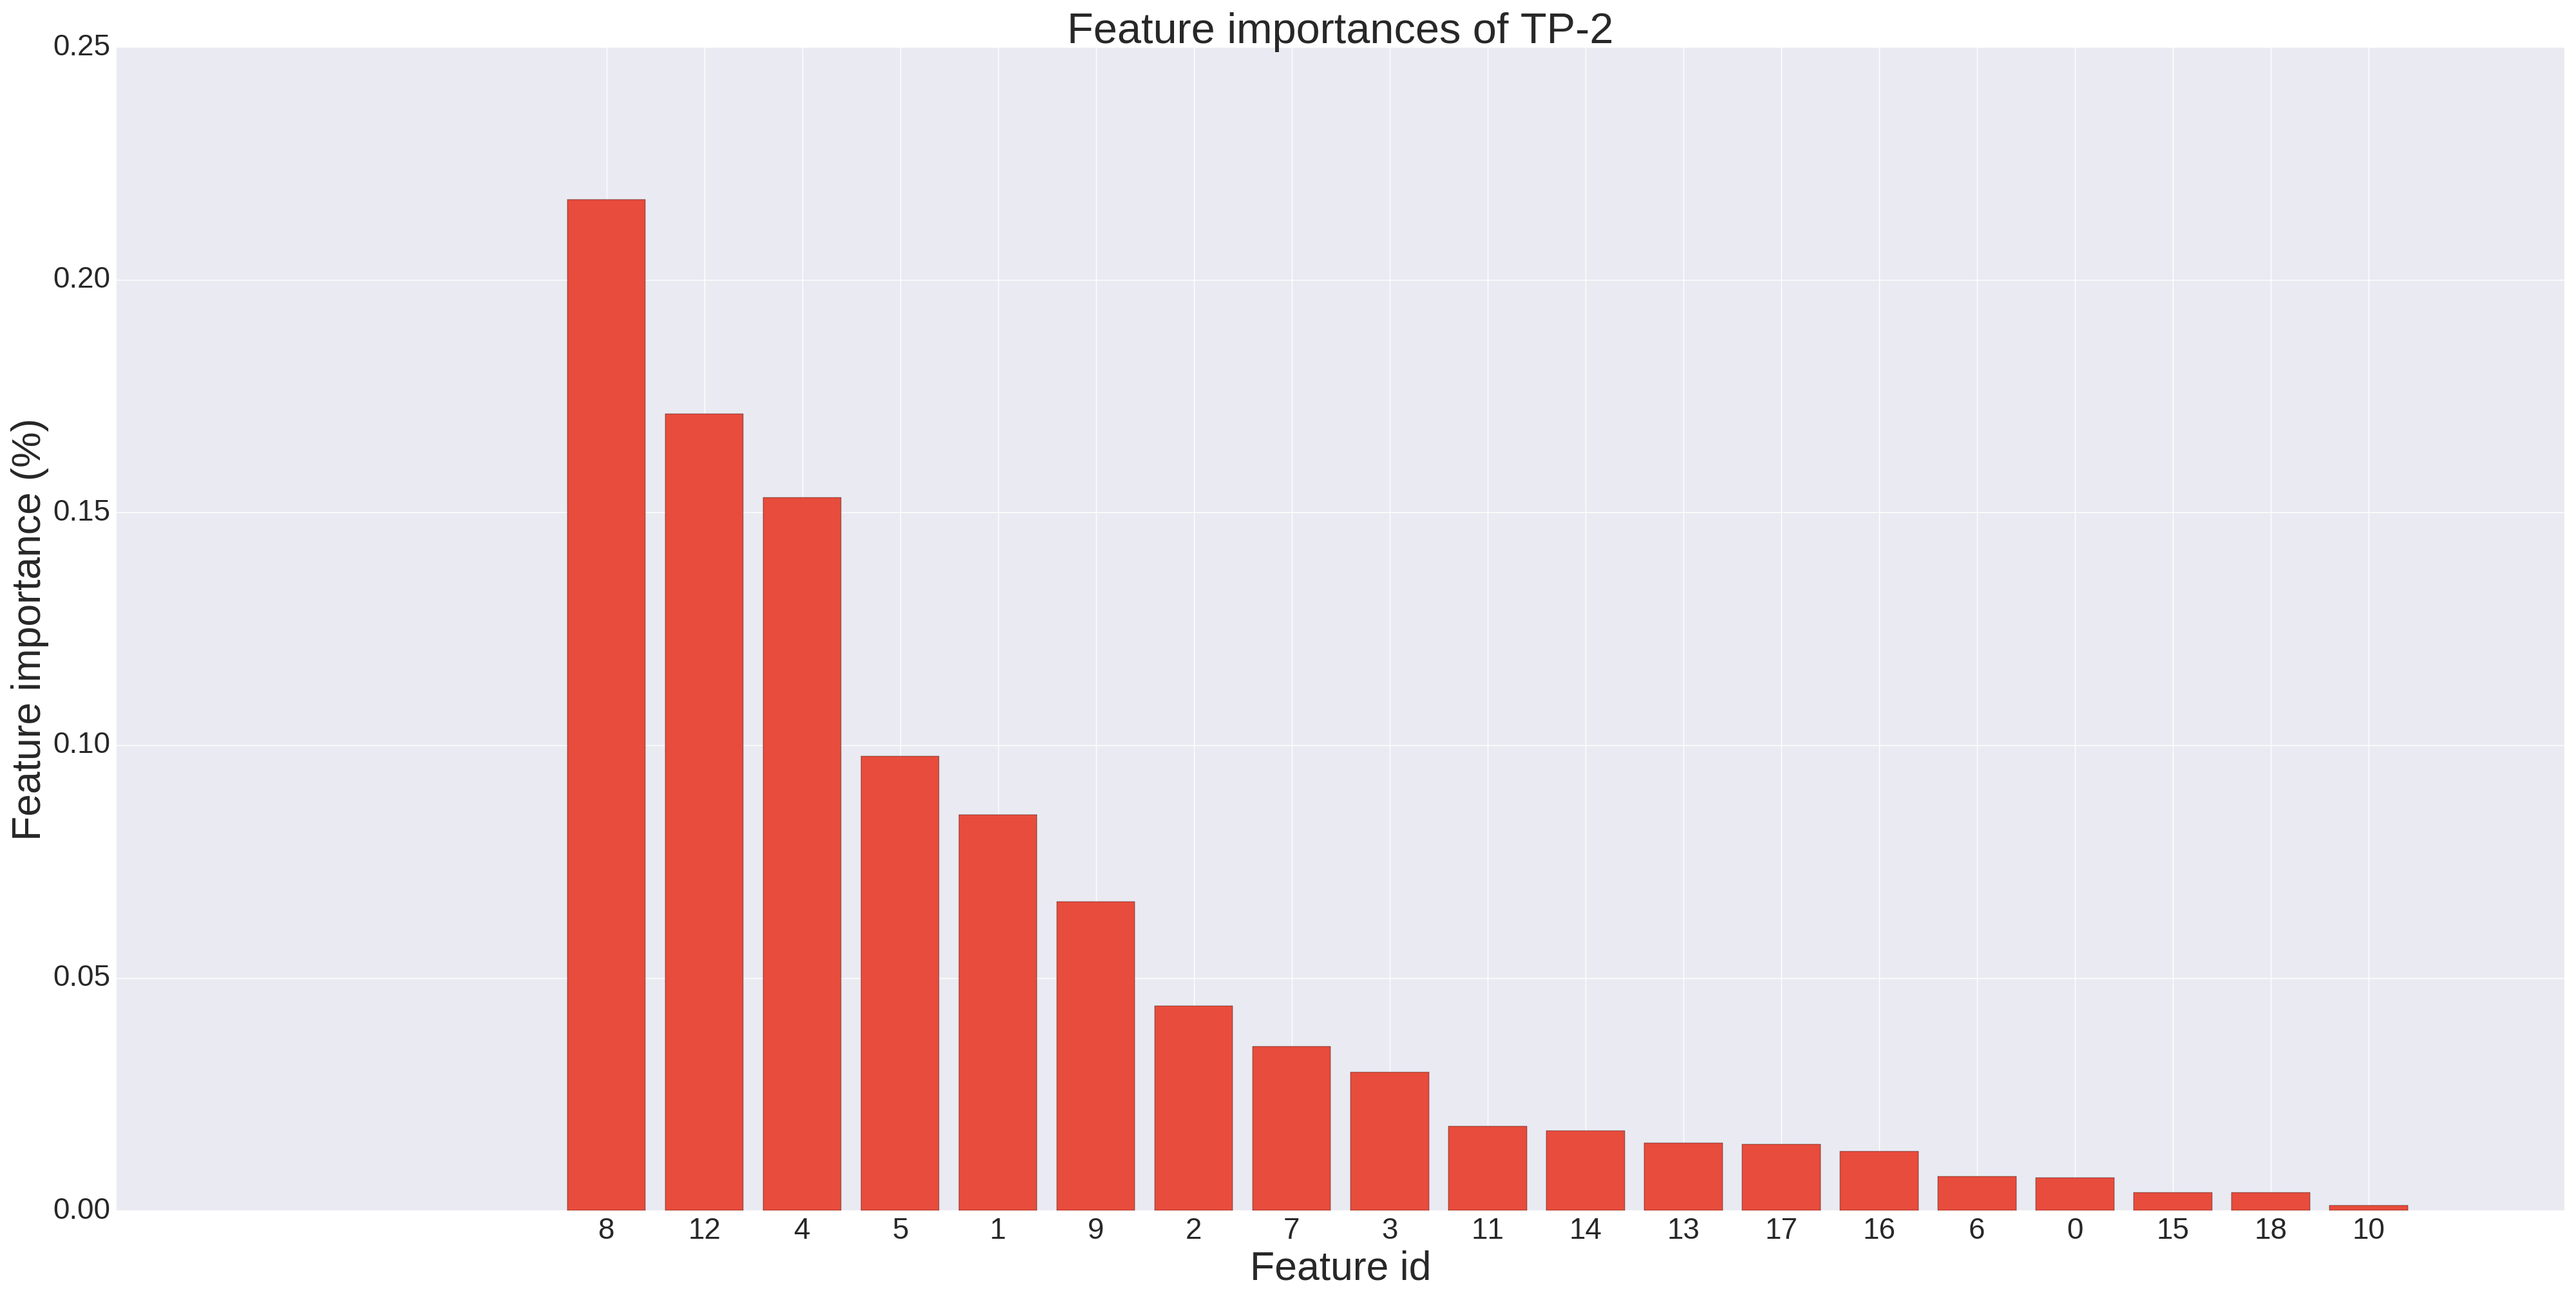
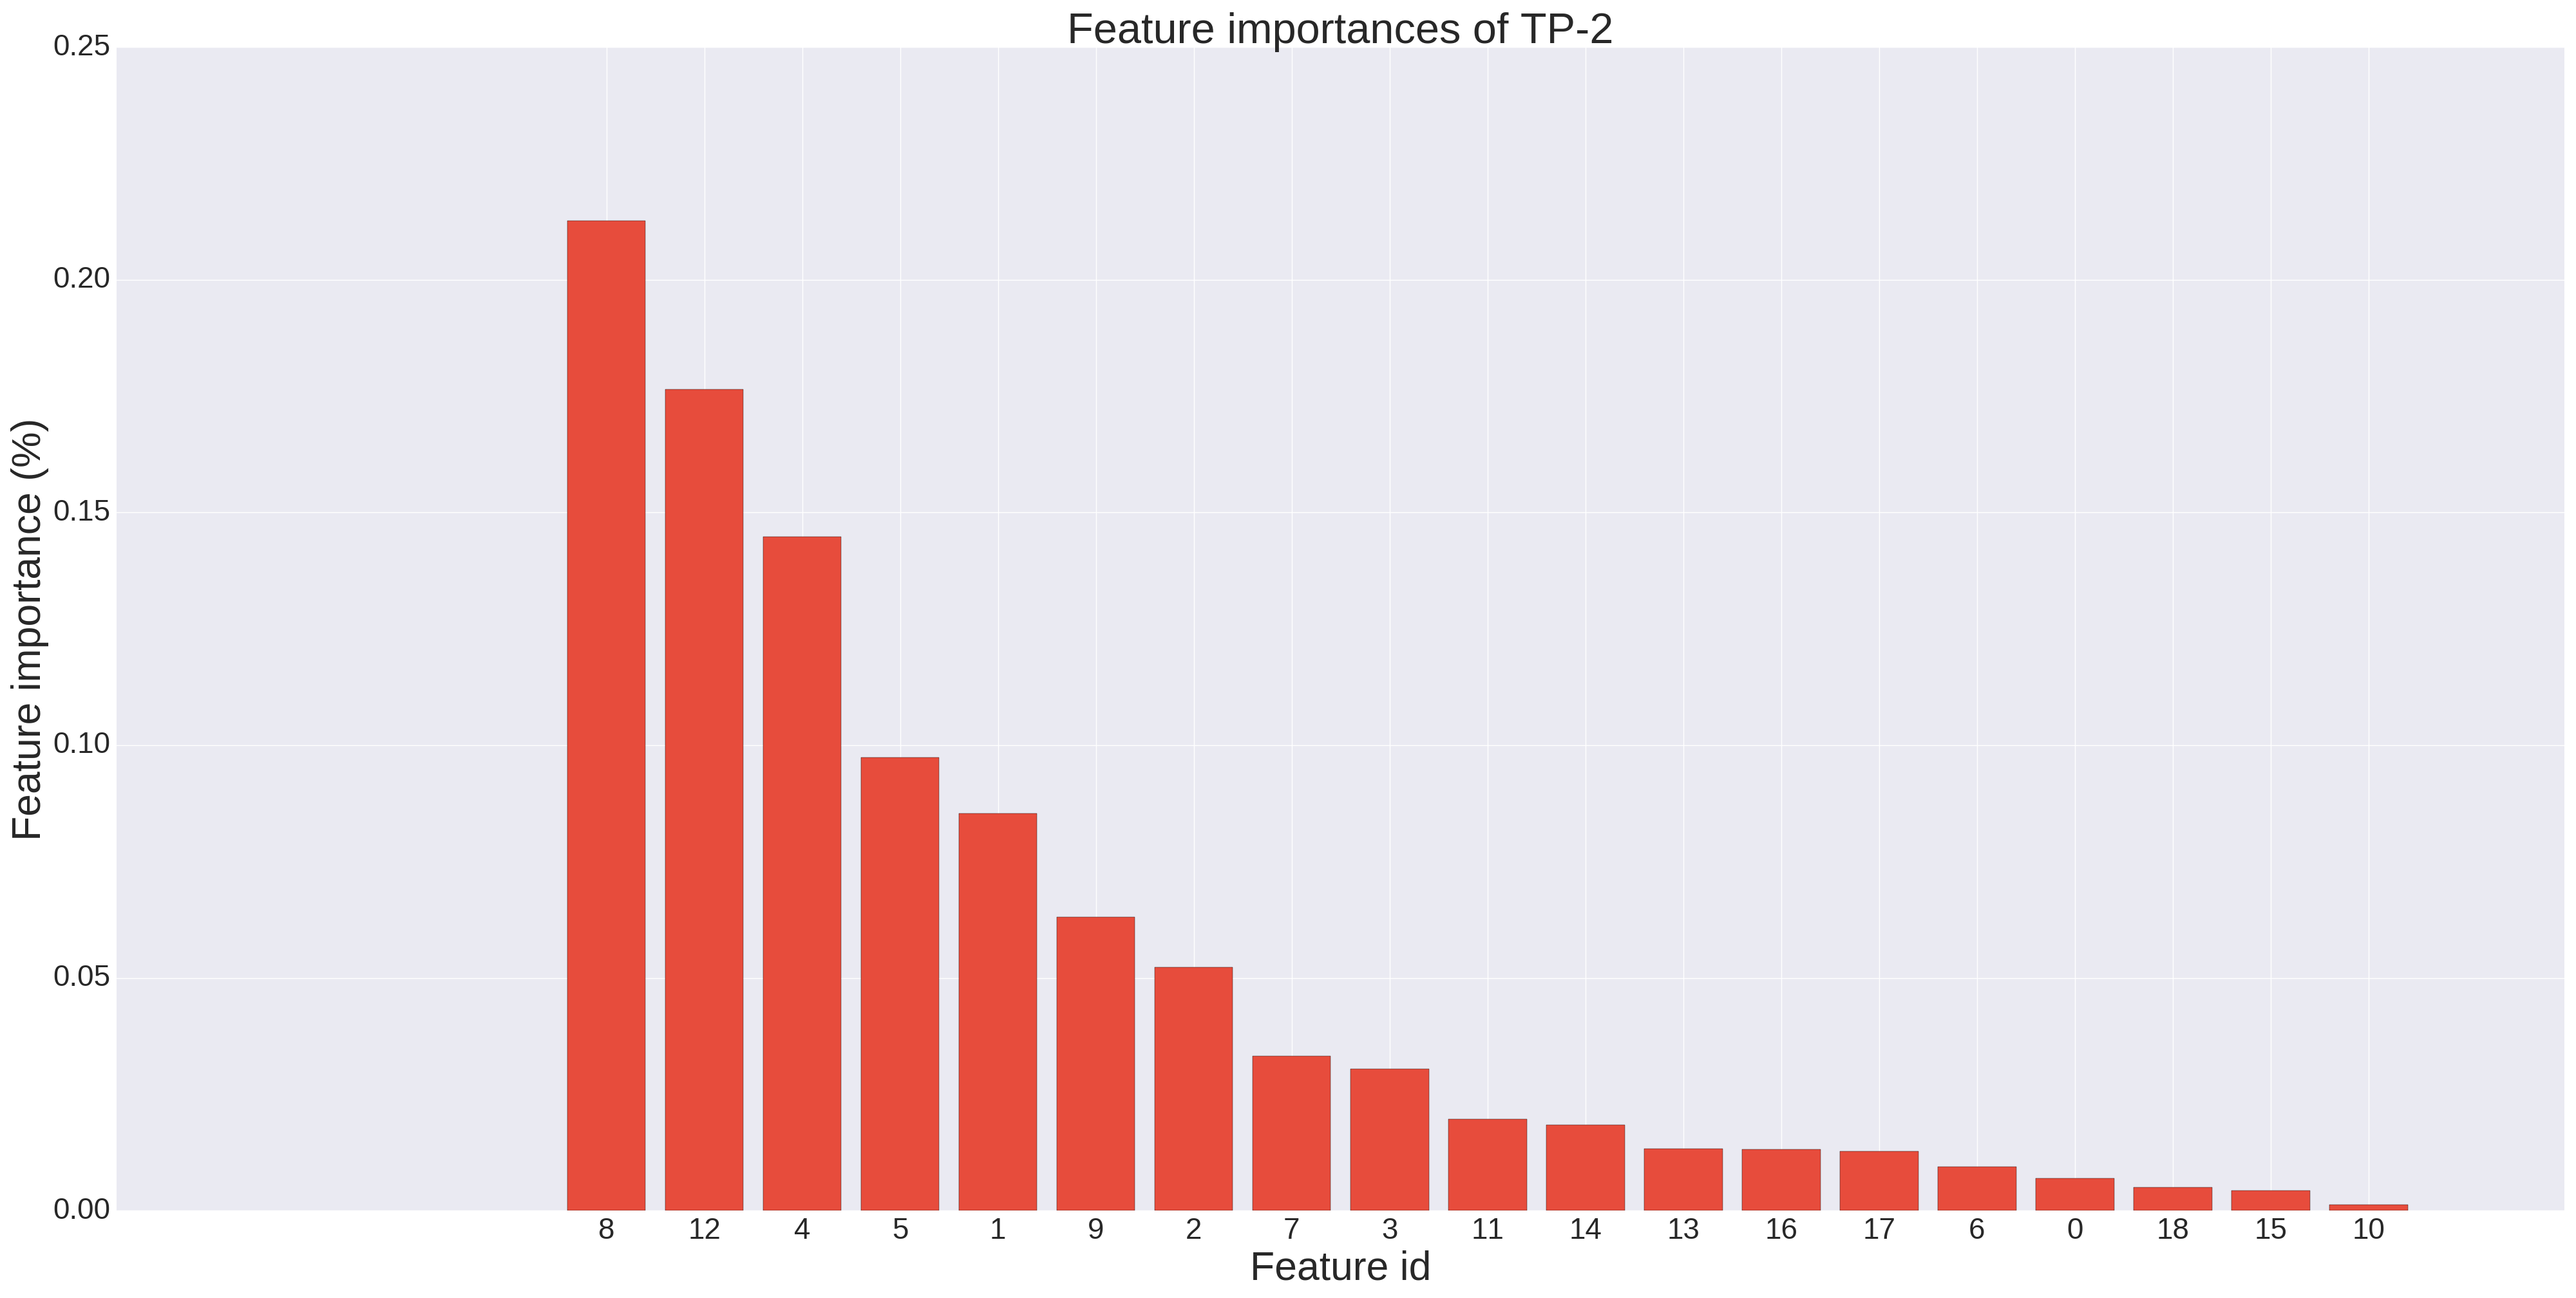
Feature importance updated and Numpy describtion updated

diff --git a/report/results.tex b/report/results.tex
@@ -156,15 +156,29 @@ Looking at the $F_1$ score we see the highest score coming from the RF model in 
 It seems undersampling does not affect the scores notably with respect to the positive class, perhaps except for the RF model in TP-1.
 
 \subsection{Feature importance}
-The Random Forest model allows for finding the relative importance of the different features. The depth of a feature in the trees can be used to determine importance, as features at the top of the tree contributes to the prediction decision over a larger fraction of samples. The average is then computed from each tree in the forest to obtain the final feature importances.
-Figure \ref{fig:feature_importances} shows the mean of the feature importances of the random forest of PP2. We can see the features which contribute most are features 8 (mutual co-occurrences), 14 (specificity), 5 (co-occurrences weighted), 4 (weighted frequency), 7 (number of co-occurrences), 2 (diversity), 3 (unique co-occurrences). Feature 12 (number of evenings) contributes very little and 13 (number of weekends) seems to have no variance.
+The Random Forest model allows for finding the relative importance of the different features. The depth of a feature in the trees can be used to determine importance, as features at the top of the tree contributes to the prediction decision over a larger fraction of samples. The average is then computed from each tree in the forest to obtain the final feature importances.\\
+Figure \ref{fig:feature_importances_pp2} shows the mean of the feature importances of the random forest of PP2 and \autoref{fig:feature_importances_tp2} shows it for TP-2. \\
+
 \begin{figure}[H]
     \hspace*{-1.0cm}
     \centering
     \includegraphics[scale=0.10]{feature_importance_PP2}
     \caption{Feature importances of random forest for PP2}
-    \label{fig:feature_importances}
+    \label{fig:feature_importances_pp2}
 \end{figure}
+We can see for PP-2, the features which contribute most are features 8 (mutual co-occurrences), 12 (specificity), 5 (co-occurrences weighted), 4 (weighted frequency), 2 (diversity), 7 (number of co-occurrences), 3 (unique co-occurrences). Feature 10 (number of evenings) contributes very little and 11 (number of weekends) seems to have no variance.
+
+\begin{figure}[H]
+    \hspace*{-1.0cm}
+    \centering
+    \includegraphics[scale=0.10]{feature_importance_TP2}
+    \caption{Feature importances of random forest for PP2}
+    \label{fig:feature_importances_tp2}
+\end{figure}
+For TP-2 is it features 8 (mutual co-occurrences), 12 (specificity), 4 (weighted frequency) and 5 (co-occurrences weighted) that are the most important. Feature 10 (number of evenings) contributes again very little. 
+
+Since we havn't implementet the same amount of features for PP-2 and TP-2, is it difficult to compare them. Though we can see that top 4 features are the same for PP-2 and TP-2. 
+
 
 In the next plots we try to look at the differences in features between the meet and non-meets of the TP-2 dataset. We chose TP-2 because it is the filtered dataset with all of our features present. \textcolor{red}{MAYBE ALSO SHOW FOR PP-2?}
 

diff --git a/report/methods.tex b/report/methods.tex
@@ -109,9 +109,10 @@ Figure \ref{fig:user_pair_at_sony} shows an example of the co-occurrences visual
 We decided to look at just how many co-occurrences happened inside the Sony perimeter. Figure \ref{fig:dist_coocs_sony} shows the number of co-occurrences inside and outside Sony perimeters, here we see a massive amount of co-occurrences happening inside the Sony perimeters. This can pose a problem as we will only be looking at co-occurrences between users that is outside Sony perimeters.
 
 \subsubsection{Data export to Numpy arrays}
-We created scripts for exportation to numpy arrays for use in the sklearn module. The users were encoded with K values where K = number of users. The countries were encoded with K values where K = number of countries.
+We found that query the database for calculating the features took too long. Instead, we created scripts for exportation to Numpy arrays and refactored some of the code to run with Numpy. The users were encoded with K values where K = number of users. The countries were encoded with K values where K = number of countries.\\
+Due to Numpys internal optimization, our code ran alot faster than with database.   
 
-Each row in the dataset represents a dyad of users and the features computed for them as well as the binary label of whether they met in the next period or not.
+Each row in the dataset represent a dyad of users and the features computed for them as well as the binary label of whether they met in the next period or not. We used it in the sklearn module.
 
 \subsection{Preparation of Production data}
 In this section we will demonstrate what we have done to prepare the production data for analysis.

diff --git a/tools/scripts/model_performance.py b/tools/scripts/model_performance.py
@@ -254,7 +254,7 @@ def plot_feature_importance(feature_impor, feature_id, pair_name, undersampling)
 
 if __name__ == '__main__':
     undersampling = False
-    target = "TP-2"
+    target = "PP-2"
     feature_impor, pair = plot_performance(gen_alldata(), undersampling=undersampling, target_importance=target)
     #print("feature_impor = {}".format(feature_impor))
     if target[0] == "T":
